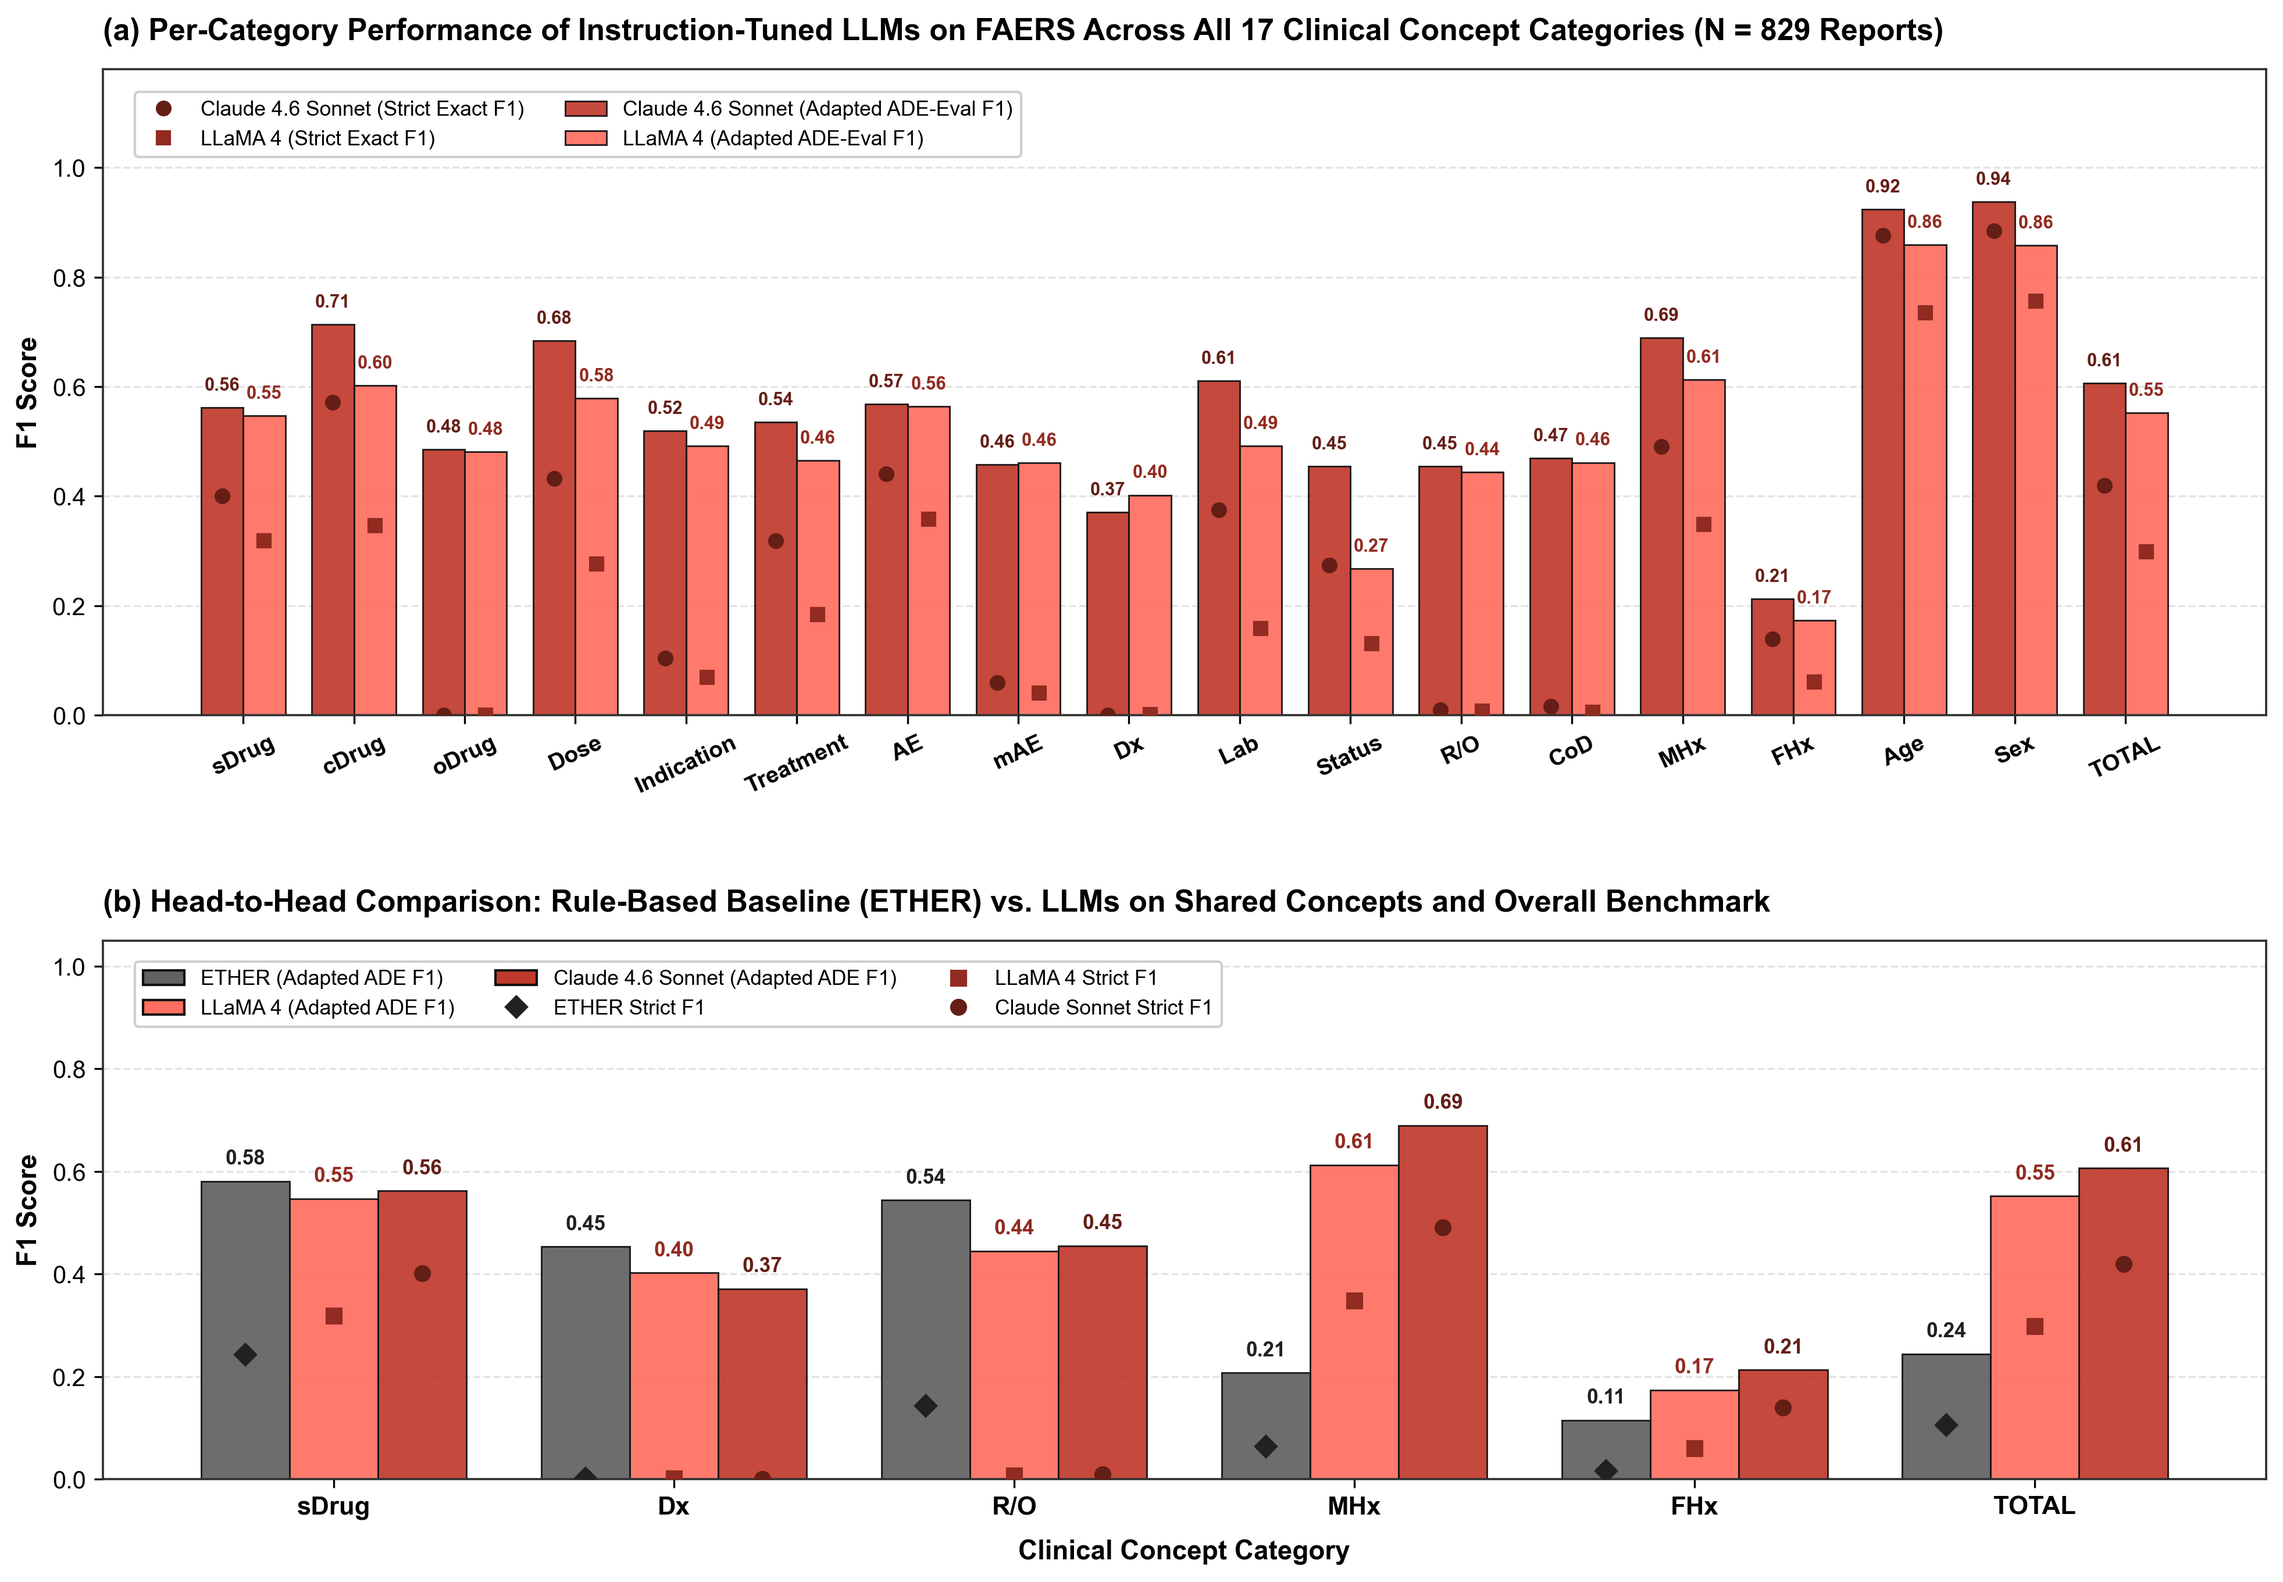
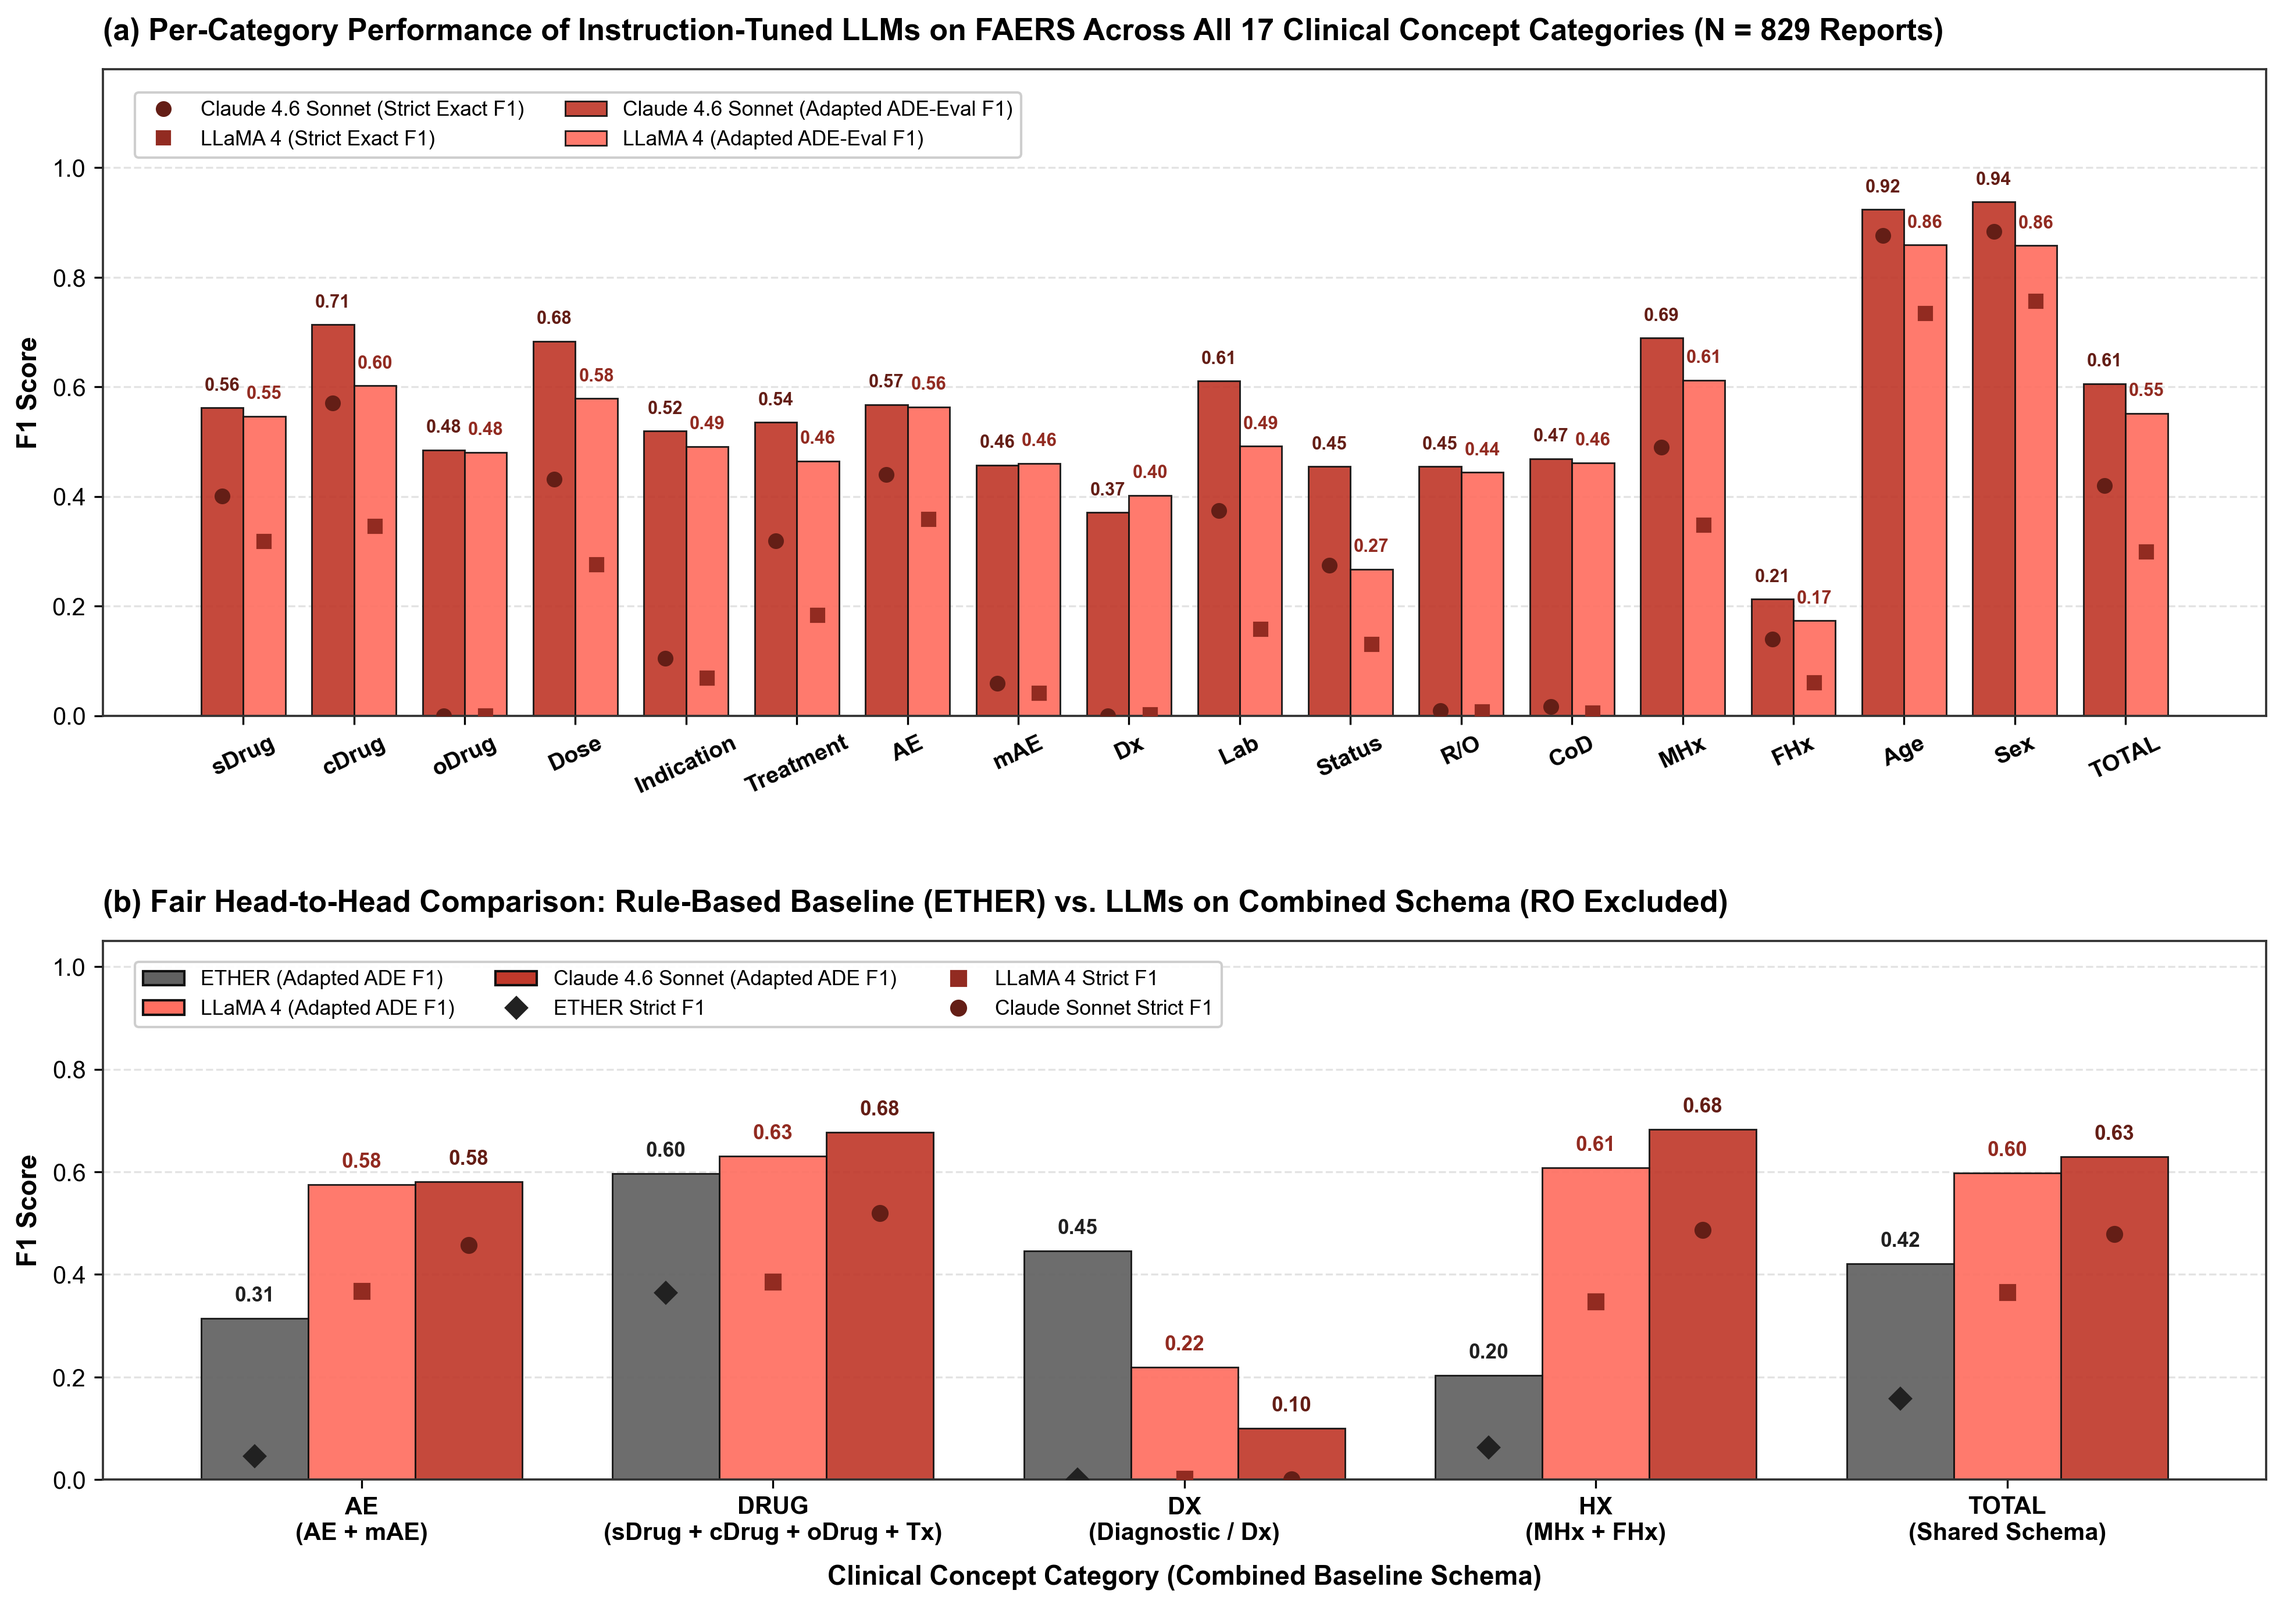
feat(figures): update Figure 3b to fair combined schema (AE, DRUG, DX, HX) and exclude RO

diff --git a/publication/scripts/generate_figure3.py b/publication/scripts/generate_figure3.py
@@ -3,17 +3,17 @@
 generate_figure3.py
 
 Regenerates publication-ready Figure 3: Performance of Instruction-Tuned LLMs
-and Rule-Based Baseline (ETHER) in FAERS Annotation Across All 17 Clinical Concept Categories.
+and Rule-Based Baseline (ETHER) in FAERS Annotation.
 
 Panels:
 - Panel (a): Per-Category Performance of Instruction-Tuned LLMs (Claude 4.6 Sonnet vs. LLaMA 4)
-             across all 17 clinical concept categories + TOTAL on FAERS (N = 829).
-- Panel (b): Head-to-Head Comparison: ETHER vs. LLaMA 4 vs. Claude 4.6 Sonnet
-             on shared categories and overall performance.
+             across all 17 fine-grained clinical concept categories + TOTAL on FAERS (N = 829).
+- Panel (b): Fair Head-to-Head Comparison: ETHER vs. LLaMA 4 vs. Claude 4.6 Sonnet
+             on combined core schemas (AE [AE+mAE], DRUG [sDrug+cDrug+oDrug+Treatment], DX, HX [MHx+FHx], and Shared TOTAL).
+             Note: RO is excluded per reviewer feedback.
 
 Standard Manuscript Color Palette:
 - ETHER: Gray (#616161)
-- BERT: Blue (#1F77B4)
 - LLaMA 4: Warm Pink close to red (#FF6F61)
 - Claude Sonnet: Crimson Red (#C0392B)
 """
@@ -95,21 +95,27 @@ def main():
     ax0.legend(loc="upper left", bbox_to_anchor=(0.01, 0.98), fontsize=8.5, framealpha=0.95, ncol=2)
 
     # -------------------------------------------------------------
-    # Panel (b): Head-to-Head Comparison: ETHER vs. LLMs
+    # Panel (b): Fair Head-to-Head Comparison: ETHER vs. LLMs (Combined Schema, RO Excluded)
     # -------------------------------------------------------------
     ax1 = fig.add_subplot(gs[1, 0])
 
-    shared_cats = ["sDrug", "Dx", "R/O", "MHx", "FHx", "TOTAL"]
+    shared_cats = [
+        "AE\n(AE + mAE)",
+        "DRUG\n(sDrug + cDrug + oDrug + Tx)",
+        "DX\n(Diagnostic / Dx)",
+        "HX\n(MHx + FHx)",
+        "TOTAL\n(Shared Schema)"
+    ]
 
-    # ETHER Metrics
-    ether_f1_ade = [0.5803, 0.4530, 0.5437, 0.2069, 0.1148, 0.2437]
-    ether_f1_strict = [0.2422, 0.0015, 0.1429, 0.0634, 0.0160, 0.1050]
+    # Fair Combined Metrics
+    ether_f1_ade = [0.3141, 0.5966, 0.4458, 0.2030, 0.4210]
+    ether_f1_strict = [0.0460, 0.3645, 0.0004, 0.0624, 0.1584]
 
-    llama_sh_ade = [0.5465, 0.4020, 0.4444, 0.6124, 0.1736, 0.5517]
-    llama_sh_strict = [0.3184, 0.0017, 0.0073, 0.3481, 0.0606, 0.2986]
+    llama_sh_ade = [0.5751, 0.6310, 0.2191, 0.6075, 0.5980]
+    llama_sh_strict = [0.3681, 0.3855, 0.0021, 0.3477, 0.3659]
 
-    sonnet_sh_ade = [0.5620, 0.3709, 0.4545, 0.6891, 0.2130, 0.6062]
-    sonnet_sh_strict = [0.4008, 0.0000, 0.0095, 0.4904, 0.1395, 0.4195]
+    sonnet_sh_ade = [0.5805, 0.6768, 0.0997, 0.6825, 0.6295]
+    sonnet_sh_strict = [0.4574, 0.5196, 0.0000, 0.4871, 0.4788]
 
     x2 = np.arange(len(shared_cats))
     width2 = 0.26
@@ -130,12 +136,12 @@ def main():
         ax1.text(x2[i], llama_sh_ade[i] + 0.025, f"{llama_sh_ade[i]:.2f}", ha="center", va="bottom", fontsize=8.5, fontweight="bold", color="#922B21")
         ax1.text(x2[i] + width2, sonnet_sh_ade[i] + 0.025, f"{sonnet_sh_ade[i]:.2f}", ha="center", va="bottom", fontsize=8.5, fontweight="bold", color="#641E16")
 
-    ax1.set_title("(b) Head-to-Head Comparison: Rule-Based Baseline (ETHER) vs. LLMs on Shared Concepts and Overall Benchmark", fontsize=12.5, fontweight="bold", loc="left", pad=12)
+    ax1.set_title("(b) Fair Head-to-Head Comparison: Rule-Based Baseline (ETHER) vs. LLMs on Combined Schema (RO Excluded)", fontsize=12.5, fontweight="bold", loc="left", pad=12)
     ax1.set_xticks(x2)
-    ax1.set_xticklabels(shared_cats, fontsize=10.5, fontweight="bold")
+    ax1.set_xticklabels(shared_cats, fontsize=10, fontweight="bold")
     ax1.set_ylim(0, 1.05)
     ax1.set_ylabel("F1 Score", fontsize=11, fontweight="bold")
-    ax1.set_xlabel("Clinical Concept Category", fontsize=11, fontweight="bold", labelpad=8)
+    ax1.set_xlabel("Clinical Concept Category (Combined Baseline Schema)", fontsize=11, fontweight="bold", labelpad=8)
     ax1.grid(axis="y", linestyle="--", alpha=0.35, zorder=0)
 
     # Custom legend for panel b
@@ -158,7 +164,7 @@ def main():
     plt.savefig(out_docx_img, dpi=300, bbox_inches="tight")
     plt.close()
 
-    print(f"Figure 3 (17 Categories) successfully generated and saved to:\n  - {out_fig_path}\n  - {out_manuscript_fig}\n  - {out_docx_img}")
+    print(f"Figure 3 (Fair Combined Schema, RO Excluded) successfully generated and saved to:\n  - {out_fig_path}\n  - {out_manuscript_fig}\n  - {out_docx_img}")
 
 
 if __name__ == "__main__":
